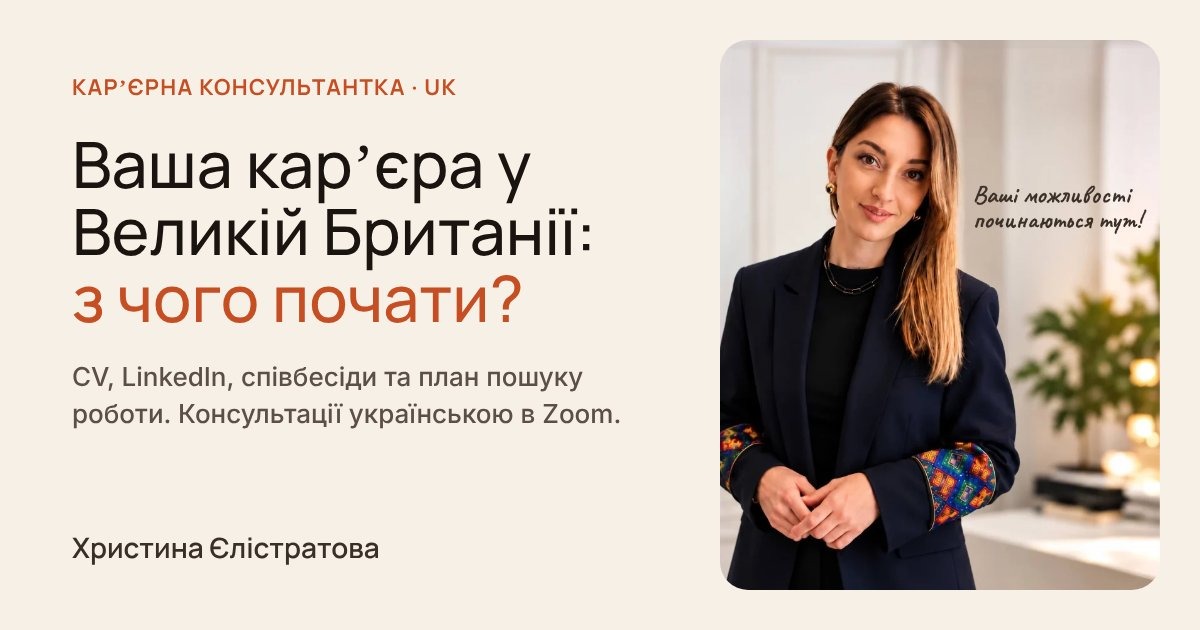
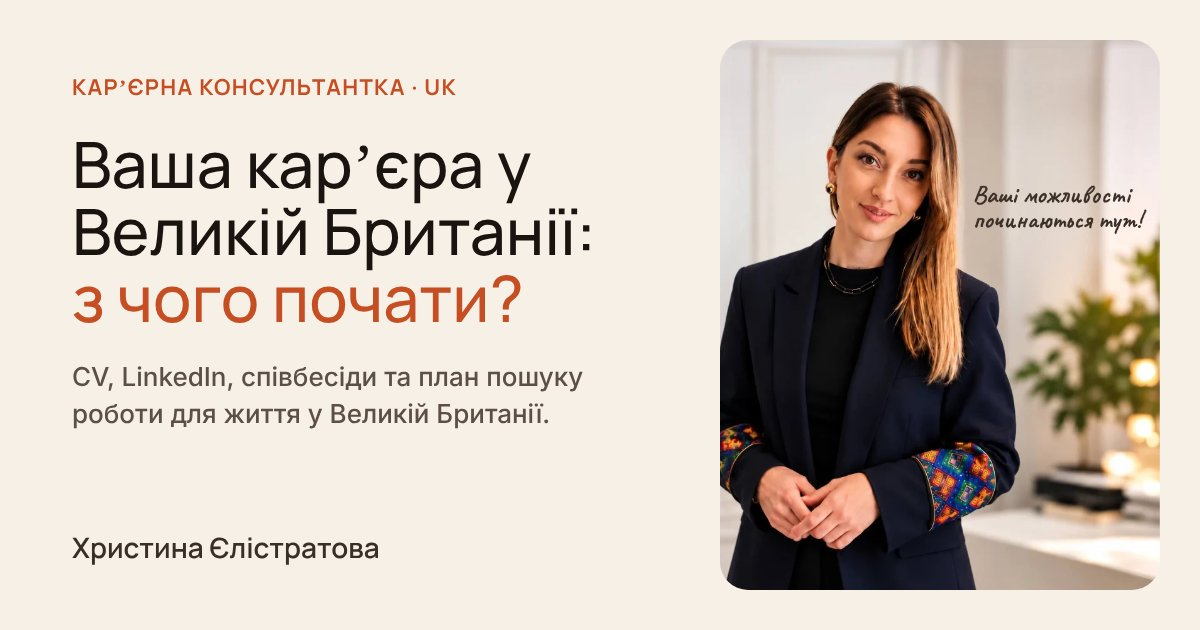
Add files via upload

Changed region(s): [[0.1233, 0.6333, 0.5242, 0.6937]]

diff --git a/index.html b/index.html
@@ -4,11 +4,11 @@
 <meta charset="utf-8">
 <meta name="viewport" content="width=device-width, initial-scale=1, viewport-fit=cover">
 <title>Христина Єлістратова — карʼєрна консультантка у Великій Британії</title>
-<meta name="description" content="Допомагаю після переїзду зрозуміти британський ринок праці, посилити резюме та LinkedIn і знайти роботу. Консультації українською в Zoom.">
+<meta name="description" content="Допомагаю після переїзду зрозуміти британський ринок праці, посилити резюме та LinkedIn і знайти роботу.">
 <meta name="theme-color" content="#f2e9df">
 <meta property="og:type" content="website">
 <meta property="og:title" content="Христина Єлістратова — карʼєрна консультантка">
-<meta property="og:description" content="Ваша карʼєра у Великій Британії: з чого почати? Консультації українською в Zoom.">
+<meta property="og:description" content="Ваша карʼєра у Великій Британії: з чого почати? CV, LinkedIn, співбесіди та план пошуку роботи.">
 <meta property="og:image" content="og-image.jpg">
 <meta property="og:image:width" content="1200">
 <meta property="og:image:height" content="630">
@@ -32,6 +32,7 @@
   --gutter:20px; --max:1120px;
 }
 *{box-sizing:border-box}
+a,button{-webkit-tap-highlight-color:transparent;touch-action:manipulation}
 html{scroll-behavior:smooth;-webkit-text-size-adjust:100%}
 body{margin:0;background:var(--page);color:var(--ink);font-family:var(--b);font-size:16px;line-height:1.5;-webkit-font-smoothing:antialiased}
 img{display:block;max-width:100%}
@@ -54,7 +55,6 @@ button{font:inherit;color:inherit;background:none;border:0;padding:0;cursor:poin
 
 /* buttons */
 .btn{display:flex;align-items:center;justify-content:center;width:100%;height:52px;padding:0 20px;border-radius:12px;background:var(--accent);color:#fff;font-family:var(--b);font-weight:600;font-size:16px;line-height:1.4;text-decoration:none;transition:background-color .2s,transform .15s,box-shadow .2s}
-.btn:hover{background:var(--accent-hover);box-shadow:0 8px 20px rgba(198,78,34,.22)}
 .btn:active{transform:scale(.98)}
 .btn--sm{width:auto;height:32px;padding:0 16px;border-radius:8px}
 
@@ -66,6 +66,7 @@ button{font:inherit;color:inherit;background:none;border:0;padding:0;cursor:poin
 .brand b{font-family:var(--h);font-weight:600;font-size:14px;line-height:1.13;white-space:nowrap}
 .brand span{font-family:var(--h);font-weight:600;font-size:10px;line-height:1.1;letter-spacing:.06em;text-transform:uppercase;color:var(--accent)}
 .burger{width:44px;height:44px;margin-right:-10px;display:grid;place-items:center;border-radius:10px}
+.header .burger{margin-left:-14px}
 .burger svg{width:24px;height:24px}
 .nav-desktop{display:none}
 
@@ -111,7 +112,6 @@ button{font:inherit;color:inherit;background:none;border:0;padding:0;cursor:poin
 .services .wrap{padding-top:32px;padding-bottom:32px;display:flex;flex-direction:column;gap:20px}
 .cards{display:grid;gap:20px}
 .card{background:var(--white);border:.5px solid var(--accent);border-radius:16px;padding:12px;display:flex;flex-direction:column;gap:24px;transition:transform .25s,box-shadow .25s}
-.card:hover{transform:translateY(-3px);box-shadow:0 14px 30px rgba(58,47,40,.08)}
 .card-body{display:flex;flex-direction:column;gap:12px;flex:1}
 .card-top{display:flex;flex-direction:column;gap:16px}
 .card-tag{display:flex;flex-direction:column;gap:12px}
@@ -160,7 +160,6 @@ button{font:inherit;color:inherit;background:none;border:0;padding:0;cursor:poin
 .mail{font-family:var(--h);font-weight:700;font-size:16px;line-height:1.1;letter-spacing:.06em;text-decoration:underline;text-underline-offset:3px;word-break:break-all}
 .socials{display:flex;gap:12px}
 .soc{width:44px;height:44px;border-radius:12px;background:var(--icon-bg);display:grid;place-items:center;transition:background-color .2s,transform .15s}
-.soc:hover{background:var(--accent)}
 .soc:active{transform:scale(.94)}
 .soc svg{width:22px;height:22px;fill:#fff}
 .legal{display:flex;flex-direction:column;gap:6px;font-size:13px;line-height:1.4;color:var(--muted)}
@@ -171,7 +170,6 @@ button{font:inherit;color:inherit;background:none;border:0;padding:0;cursor:poin
 .menu-head{display:flex;align-items:center;gap:12px;padding-top:14px;padding-bottom:14px;border-bottom:1px solid var(--line)}
 .menu nav{display:flex;flex-direction:column;padding-top:16px}
 .menu nav a{font-family:var(--h);font-weight:500;font-size:24px;line-height:1.25;text-decoration:none;padding:14px 0;border-bottom:1px solid var(--line);transform:translateY(8px);opacity:0;transition:transform .35s,opacity .35s,color .2s}
-.menu nav a:hover{color:var(--accent)}
 .menu.open nav a{transform:none;opacity:1}
 .menu.open nav a:nth-child(2){transition-delay:.04s}.menu.open nav a:nth-child(3){transition-delay:.08s}.menu.open nav a:nth-child(4){transition-delay:.12s}.menu.open nav a:nth-child(5){transition-delay:.16s}
 .menu-foot{margin-top:auto;padding-top:24px;padding-bottom:calc(28px + env(safe-area-inset-bottom));display:flex;flex-direction:column;gap:20px}
@@ -187,7 +185,6 @@ button{font:inherit;color:inherit;background:none;border:0;padding:0;cursor:poin
 .sheet-sub{margin:8px 0 18px;color:var(--ink-2);font-size:15px;line-height:1.5}
 .channels{display:flex;flex-direction:column;gap:10px}
 .channel{display:flex;align-items:center;gap:14px;padding:12px;border-radius:16px;background:var(--white);border:1px solid var(--line);text-decoration:none;transition:border-color .2s,transform .15s}
-.channel:hover{border-color:var(--accent)}
 .channel:active{transform:scale(.98)}
 .channel .soc{flex:none}
 .channel span{flex:1;display:flex;flex-direction:column;gap:2px}
@@ -197,7 +194,6 @@ button{font:inherit;color:inherit;background:none;border:0;padding:0;cursor:poin
 .template{margin-top:16px;background:var(--surface);border-radius:16px;padding:14px;display:flex;flex-direction:column;gap:10px}
 .template p{margin:0;font-size:14px;line-height:1.5;color:var(--ink)}
 .copy-btn{align-self:flex-start;height:36px;padding:0 14px;border-radius:10px;border:1px solid var(--ink);font-weight:600;font-size:14px;display:inline-flex;align-items:center;gap:8px;transition:background-color .2s,color .2s}
-.copy-btn:hover{background:var(--ink);color:#fff}
 .copy-btn.done{background:var(--accent);border-color:var(--accent);color:#fff}
 body.locked{overflow:hidden}
 
@@ -220,7 +216,6 @@ body.locked{overflow:hidden}
   .burger{display:none}
   .nav-desktop{display:flex;gap:28px;margin-right:16px}
   .nav-desktop a{text-decoration:none;font-size:14px;color:var(--ink-2);transition:color .2s}
-  .nav-desktop a:hover{color:var(--accent)}
   .btn--sm{height:40px;padding:0 20px;border-radius:10px}
   .hero{display:grid;grid-template-columns:1fr 1fr;gap:64px;align-items:center;padding-top:48px;padding-bottom:64px}
   .hero-photo,.intro{padding:0}
@@ -247,6 +242,15 @@ body.locked{overflow:hidden}
   .sheet-open .sheet{transform:translate(-50%,50%);opacity:1;visibility:visible;pointer-events:auto}
   .sheet-handle{display:none}
 }
+@media (hover:hover) and (pointer:fine){
+.btn:hover{background:var(--accent-hover);box-shadow:0 8px 20px rgba(198,78,34,.22)}
+.card:hover{transform:translateY(-3px);box-shadow:0 14px 30px rgba(58,47,40,.08)}
+.soc:hover{background:var(--accent)}
+.menu nav a:hover{color:var(--accent)}
+.channel:hover{border-color:var(--accent)}
+.copy-btn:hover{background:var(--ink);color:#fff}
+.nav-desktop a:hover{color:var(--accent)}
+}
 </style>
 </head>
 <body>
@@ -257,14 +261,14 @@ body.locked{overflow:hidden}
   <symbol id="i-quote" viewBox="0 0 18 14"><path transform="rotate(180 9 7)" d="M0 14V9.3C0 4.6 2 1.5 6 0l1.2 1.9C5 3 4 4.6 3.8 6.6H7.4V14H0zm10.6 0V9.3c0-4.7 2-7.8 6-9.3L17.8 1.9C15.6 3 14.6 4.6 14.4 6.6H18V14h-7.4z"/></symbol>
   <symbol id="i-linkedin" viewBox="0 0 24 24"><path d="M20.45 20.45h-3.55v-5.57c0-1.33-.03-3.04-1.85-3.04-1.86 0-2.14 1.45-2.14 2.94v5.67H9.35V9h3.41v1.56h.05c.48-.9 1.64-1.85 3.37-1.85 3.6 0 4.27 2.37 4.27 5.46v6.28zM5.34 7.43a2.06 2.06 0 1 1 0-4.13 2.06 2.06 0 0 1 0 4.13zM7.12 20.45H3.56V9h3.56v11.45z"/></symbol>
   <symbol id="i-telegram" viewBox="0 0 24 24"><path d="M21.94 4.26 18.7 19.53c-.24 1.08-.88 1.35-1.79.84l-4.94-3.64-2.38 2.29c-.26.26-.48.48-.99.48l.35-5.02 9.14-8.26c.4-.35-.09-.55-.62-.2L6.17 13.13l-4.86-1.52c-1.06-.33-1.08-1.06.22-1.57L20.5 2.7c.88-.33 1.65.2 1.44 1.56z"/></symbol>
-  <symbol id="i-threads" viewBox="0 0 24 24"><path d="M17.3 11.1c-.1-.05-.2-.09-.3-.13-.18-3.3-1.98-5.19-5.01-5.21h-.04c-1.81 0-3.32.77-4.25 2.18l1.67 1.15c.69-1.05 1.78-1.28 2.58-1.28h.03c1 .01 1.75.3 2.24.86.35.41.59.98.71 1.69-.89-.15-1.85-.2-2.88-.14-2.9.17-4.77 1.86-4.64 4.21.06 1.19.66 2.22 1.68 2.89.86.57 1.98.85 3.13.78 1.53-.08 2.72-.66 3.55-1.73.63-.81 1.03-1.86 1.21-3.18.73.44 1.27 1.02 1.57 1.72.51 1.19.54 3.15-1.06 4.75-1.4 1.4-3.09 2.01-5.64 2.03-2.83-.02-4.98-.93-6.37-2.7-1.31-1.66-1.98-4.05-2.01-7.12.03-3.07.7-5.46 2.01-7.12 1.39-1.77 3.54-2.68 6.37-2.7 2.86.02 5.04.94 6.49 2.72.71.88 1.24 1.98 1.6 3.27l1.95-.52c-.44-1.6-1.12-2.98-2.05-4.12-1.86-2.29-4.59-3.46-8.1-3.49h-.01c-3.5.02-6.19 1.2-8.01 3.5C1.72 6.46.88 9.33.85 12.99v.02c.03 3.66.87 6.53 2.5 8.59 1.82 2.3 4.51 3.48 8.01 3.5h.01c3.11-.02 5.3-.84 7.11-2.64 2.37-2.37 2.3-5.33 1.52-7.15-.56-1.3-1.62-2.36-3.07-3.06zm-5.37 5.05c-1.3.07-2.65-.51-2.71-1.76-.05-.93.66-1.96 2.8-2.09.25-.01.49-.02.72-.02.78 0 1.5.08 2.16.22-.25 3.07-1.69 3.58-2.97 3.65z"/></symbol>
+  <symbol id="i-threads" viewBox="0 0 24 24"><path d="M18.263 11.097C18.233 7.611 16.343 5.511 13.152 5.511C11.022 5.511 9.23 6.474 8.289 8.01L10.351 9.448C10.886 8.605 11.623 7.905 12.979 7.905C14.507 7.905 15.297 8.755 15.523 10.336C14.783 10.2226 14.0356 10.1648 13.287 10.163C9.162 10.163 7.219 12.03 7.219 14.499C7.219 16.968 9.162 18.489 12.023 18.489C15.162 18.489 17.036 16.374 17.804 13.754C18.602 14.115 19.152 14.958 19.152 16.224C19.152 19.611 15.245 21.456 11.932 21.456C7.047 21.456 3.855 18.249 3.855 13.032C3.855 6.64 8.078 2.545 13.755 2.545C17.563 2.545 19.445 4.216 20.725 6.459L22.833 4.984C21.44 2.078 18.331 0 13.663 0C6.227 0 1.168 5.277 1.168 12.934C1.168 19.934 6.121 24 12.024 24C16.902 24 21.833 21.154 21.833 16.284C21.833 13.739 20.372 12.053 18.263 11.097ZM11.934 15.952C10.857 15.952 9.908 15.44 9.908 14.499C9.908 13.016 11.73 12.565 13.514 12.565C14.192 12.565 14.854 12.61 15.441 12.738C15.019 14.665 13.77 15.953 11.933 15.952H11.934Z"/></symbol>
   <symbol id="i-mail" viewBox="0 0 24 24"><path d="M3 5h18a1 1 0 0 1 1 1v12a1 1 0 0 1-1 1H3a1 1 0 0 1-1-1V6a1 1 0 0 1 1-1zm1 2.3V17h16V7.3l-8 5.6-8-5.6zM5.7 7l6.3 4.4L18.3 7H5.7z"/></symbol>
   <symbol id="i-chev" viewBox="0 0 24 24"><path d="M9 6l6 6-6 6" fill="none" stroke-width="2" stroke-linecap="round" stroke-linejoin="round"/></symbol>
 </svg>
 
 <header class="header" id="top">
   <div class="wrap">
-    <a class="brand" href="#top" aria-label="На початок сторінки">
+    <a class="brand" href="#" data-top aria-label="На початок сторінки">
       <b>Христина Єлістратова</b>
       <span>Карʼєрна консультантка</span>
     </a>
@@ -408,7 +412,7 @@ body.locked{overflow:hidden}
         <div class="process-title"><h2 class="h2">Від запиту — до конкретного плану.</h2><svg fill="#74665b" viewBox="0 0 42 42" aria-hidden="true"><use href="#i-quote" x="10" y="12" width="22" height="17"/></svg></div>
       </div>
       <ol class="steps">
-        <li class="step reveal"><span class="num">01</span><h3 class="h3">Онлайн-зустріч</h3><p>Консультація проходить у Zoom і триває 60 хвилин.</p></li>
+        <li class="step reveal"><span class="num">01</span><h3 class="h3">Онлайн-зустріч</h3><p>Консультація проходить онлайн і триває 60 хвилин.</p></li>
         <li class="step reveal" style="--d:.06s"><span class="num">02</span><h3 class="h3">Розбираємо вашу ситуацію</h3><p>Обговорюємо ваш досвід, цілі, сильні сторони та труднощі з пошуком роботи у Великій Британії.</p></li>
         <li class="step reveal" style="--d:.12s"><span class="num">03</span><h3 class="h3">Створюємо персональний навігатор</h3><p>Я формую Career Roadmap: ресурси, вакансії та платформи для пошуку, рекрутингові агентства, нетворкінг, навчання, волонтерство та інші можливості — з прямими посиланнями.</p></li>
         <li class="step reveal" style="--d:.18s"><span class="num">04</span><h3 class="h3">Залишаємося на звʼязку</h3><p>Після консультації ми залишаємося на звʼязку, поки ви не знайдете свою роботу.</p></li>
@@ -479,7 +483,7 @@ body.locked{overflow:hidden}
 <!-- MENU -->
 <div class="menu" id="menu" role="dialog" aria-modal="true" aria-label="Меню">
   <div class="menu-head wrap">
-    <a class="brand" href="#top" data-menu-close><b>Христина Єлістратова</b><span>Карʼєрна консультантка</span></a>
+    <a class="brand" href="#" data-top data-menu-close><b>Христина Єлістратова</b><span>Карʼєрна консультантка</span></a>
     <button class="burger" aria-label="Закрити меню" data-menu-close>
       <svg viewBox="0 0 24 24" fill="none" stroke="#3a2f28" stroke-width="2" stroke-linecap="round"><path d="M6 6l12 12M18 6L6 18"/></svg>
     </button>
@@ -512,7 +516,7 @@ body.locked{overflow:hidden}
       <svg width="22" height="22" viewBox="0 0 24 24" fill="none" stroke="#3a2f28" stroke-width="2" stroke-linecap="round"><path d="M6 6l12 12M18 6L6 18"/></svg>
     </button>
   </div>
-  <p class="sheet-sub">Я відповім протягом 1–2 днів і запропоную час консультації в Zoom.</p>
+  <p class="sheet-sub">Я відповім протягом 1–2 днів і запропоную зручний час консультації.</p>
   <div class="channels">
     <a class="channel" data-link="telegram" target="_blank" rel="noopener">
       <i class="soc"><svg><use href="#i-telegram"/></svg></i><span><b>Telegram</b><small>Найшвидше — одразу в чат</small></span><svg><use href="#i-chev"/></svg>
@@ -533,6 +537,7 @@ body.locked{overflow:hidden}
 
 <script>
 document.documentElement.classList.add('js');
+const reduce = matchMedia('(prefers-reduced-motion: reduce)').matches;
 
 /* ===== ПОСИЛАННЯ: замініть TELEGRAM на справжній нікнейм ===== */
 const LINKS = {
@@ -554,6 +559,9 @@ function applyLinks(){
   document.getElementById('tpl').textContent = tplText();
 }
 applyLinks();
+
+/* logo -> top */
+document.querySelectorAll('[data-top]').forEach(a => a.addEventListener('click', e => { e.preventDefault(); setTimeout(() => scrollTo({top:0, behavior: reduce ? 'auto' : 'smooth'}), 0); }));
 
 /* header shadow */
 const header = document.querySelector('.header');
@@ -604,7 +612,6 @@ copyBtn.addEventListener('click', async () => {
 });
 
 /* reveal on scroll + count-up */
-const reduce = matchMedia('(prefers-reduced-motion: reduce)').matches;
 function countUp(el){
   const end = +el.dataset.count; if (reduce) return;
   const t0 = performance.now(), dur = 1100;
